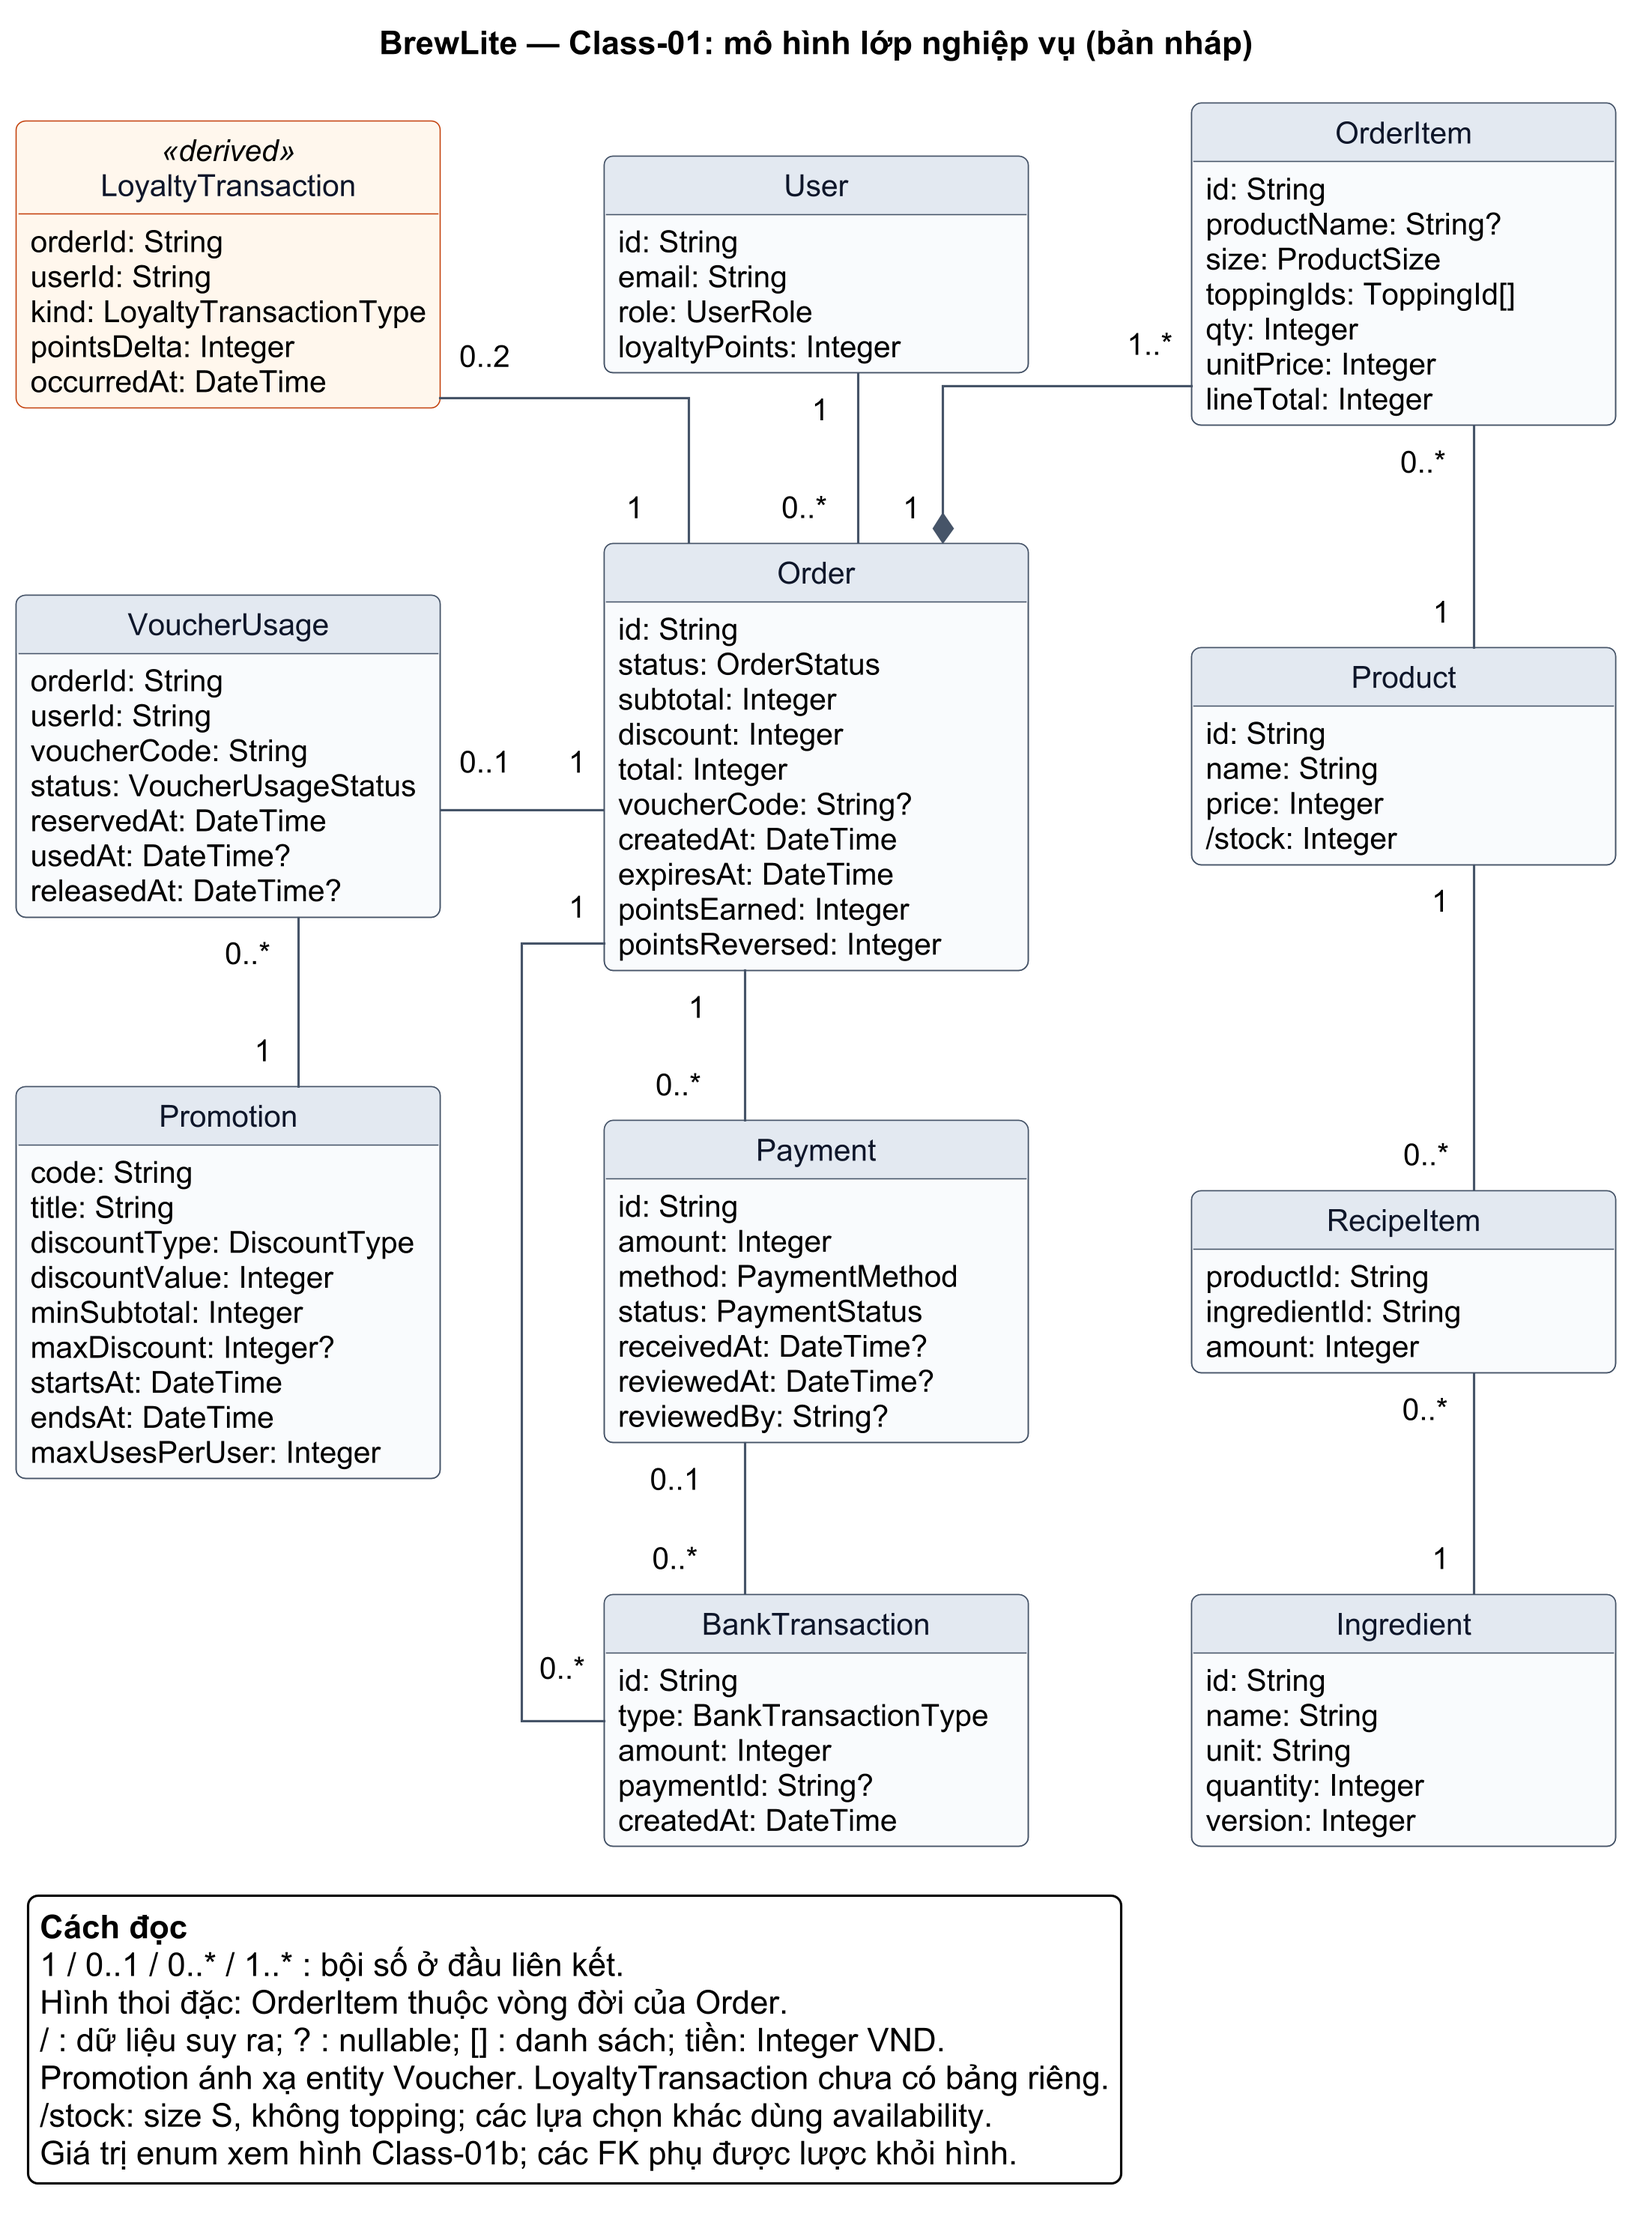
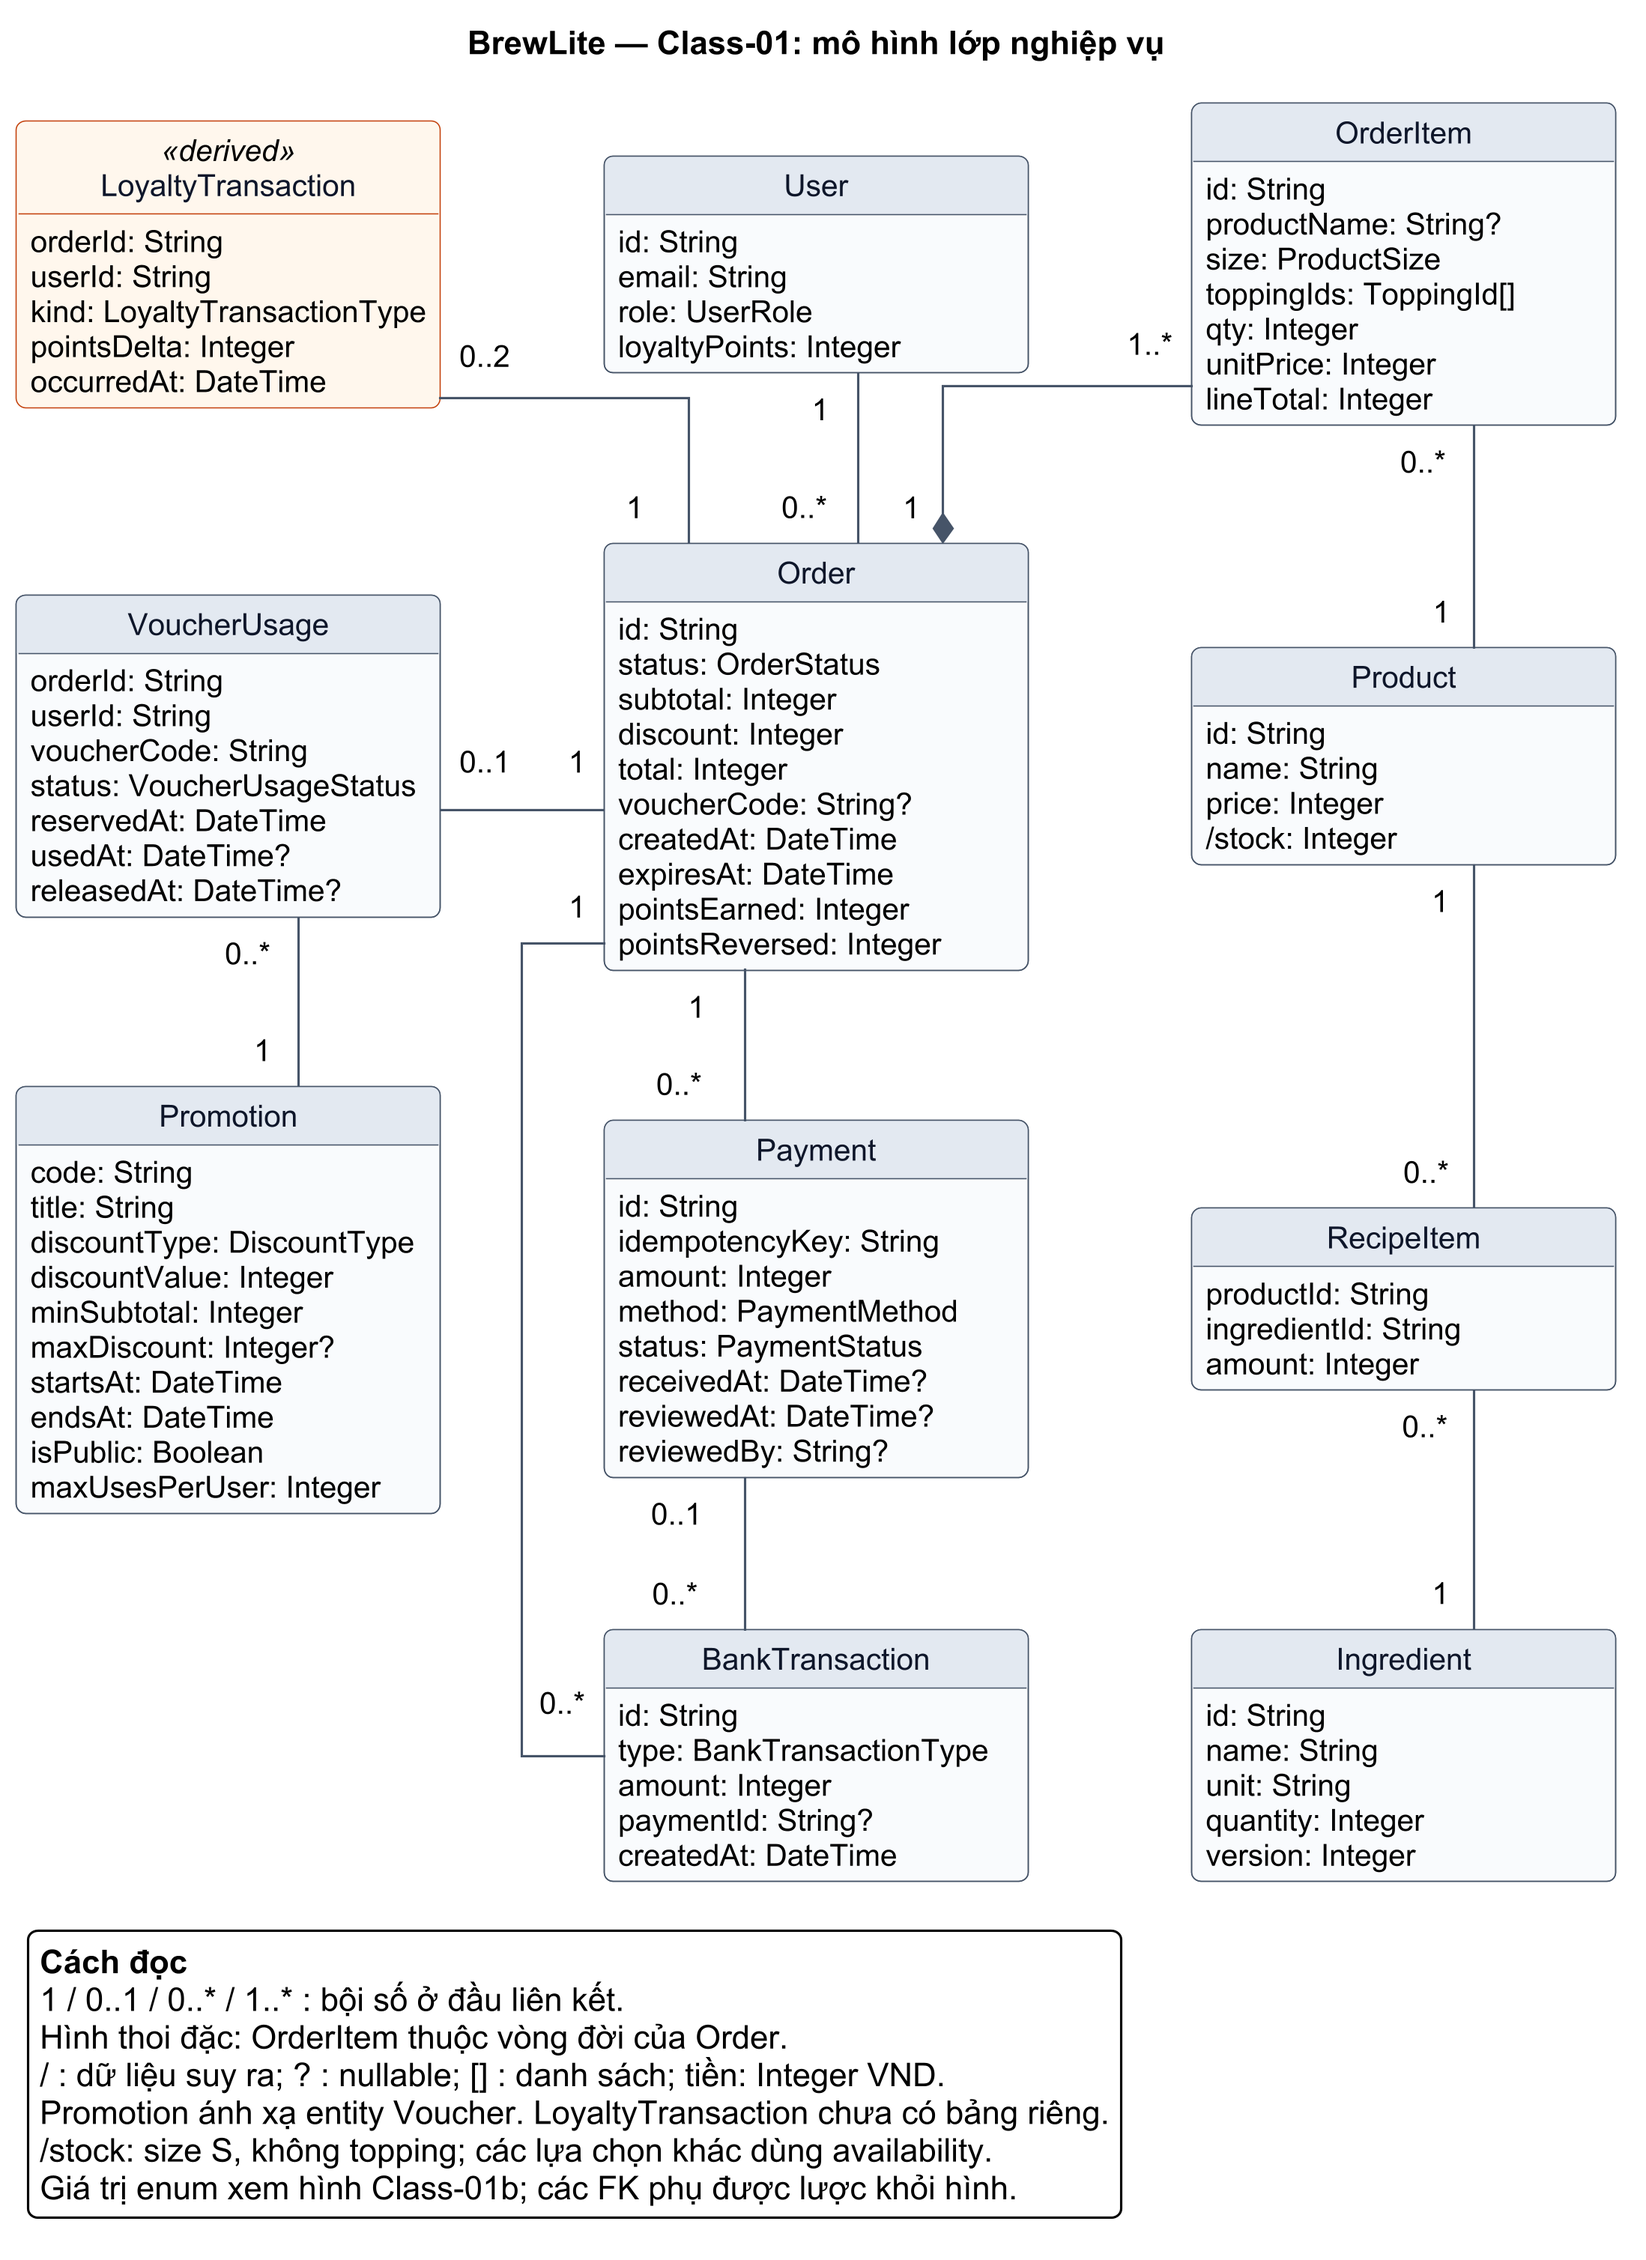
docs(diagrams): address task 2.3 review

diff --git a/docs/diagrams/class.tex b/docs/diagrams/class.tex
@@ -30,6 +30,7 @@ Thanh toán & Payment, BankTransaction & Quản lý phiên thanh toán và sao k
 Mỗi Order thuộc một User và chứa ít nhất một OrderItem. Order--OrderItem
 là quan hệ thành phần (composition) vì dòng món thuộc vòng đời của đơn. Một đơn có thể có nhiều
 Payment qua các lần thử, nhưng tối đa một phiên đang chờ xử lý.
+Khóa \texttt{idempotencyKey} của Payment là duy nhất, ngăn tạo phiên trùng khi gửi lại yêu cầu.
 BankTransaction luôn gắn với Order và có thể không gắn trực tiếp Payment.
 RecipeItem liên kết Product với Ingredient theo định lượng size S;
 \texttt{/stock} là số ly suy ra cho size S không topping. Các bội số
@@ -45,7 +46,8 @@ Payment; nhân viên mới xác nhận Order PAID. Đơn chưa có tiền về h
 15 phút, còn đơn đã có tiền về chờ nhân viên xử lý.
 
 \subsubsection{Ánh xạ với hệ thống hiện tại}
-Promotion tương ứng với Voucher trong mã nguồn. LoyaltyTransaction là lớp
+Promotion tương ứng với Voucher trong mã nguồn; \texttt{isPublic} phân biệt
+mã có sẵn trong danh sách với mã chỉ nhập trực tiếp. LoyaltyTransaction là lớp
 nghiệp vụ suy ra từ Order, chưa có bảng hay API riêng. Với đơn áp dụng chính
 sách điểm phiên bản 1, sự kiện EARN được xác định tại pointsAwardedAt với
 số điểm bằng \texttt{pointsEarned + pointsReversed}; REVERSAL được xác định

diff --git a/docs/traceability-matrix.md b/docs/traceability-matrix.md
@@ -39,13 +39,14 @@ hoặc kiểm thử đã được triển khai.
 
 ## Class-01 (Task 2.3)
 
-Bản nháp thiết kế cho Issue #9; chưa nghiệm thu hoặc thay thế bằng chứng code/test A2.
+Thiết kế cho Issue #9, review tại PR #12; không thay thế bằng chứng code/test A2.
 
 - Nguồn: [class-domain.puml](diagrams/class-domain.puml), gồm hai view.
 - Hình lớp: [SVG](diagrams/class-domain.svg), [PNG](diagrams/class-domain.png).
 - Enum: [Class-01b](diagrams/class-domain-enums.svg), [PNG](diagrams/class-domain-enums.png).
 - Thuyết minh: [class.tex](diagrams/class.tex).
 - LoyaltyTransaction là lớp suy ra từ Order, chưa có bảng riêng trong A1.
-- Đã đối chiếu Task 1.1 và đồng bộ main c78780e. Đã đọc bản nháp sequence Task 2.2 tại 0b9a7e4; cần thống nhất tên trường/bảng trước nghiệm thu: `paymentExpiresAt` → `expiresAt`, `totalPrice` → `total`, `bank_statements` → `bank_transactions`, `committed = true` → trạng thái lượt mã `USED` theo code A1 hiện có.
+- Đã đối chiếu Task 1.1 trên main `c78780e` và sequence Task 2.2 tại `4c630e8`; các tên `expiresAt`, `total`, `bank_transactions` và trạng thái lượt mã `USED` đã thống nhất với code A1.
+- Cập nhật theo review PR #12: Payment có `idempotencyKey: String` duy nhất; Promotion có `isPublic: Boolean` để phân biệt mã công khai và mã chỉ nhập trực tiếp.
 
 [Class-01]: diagrams/class-domain.svg
